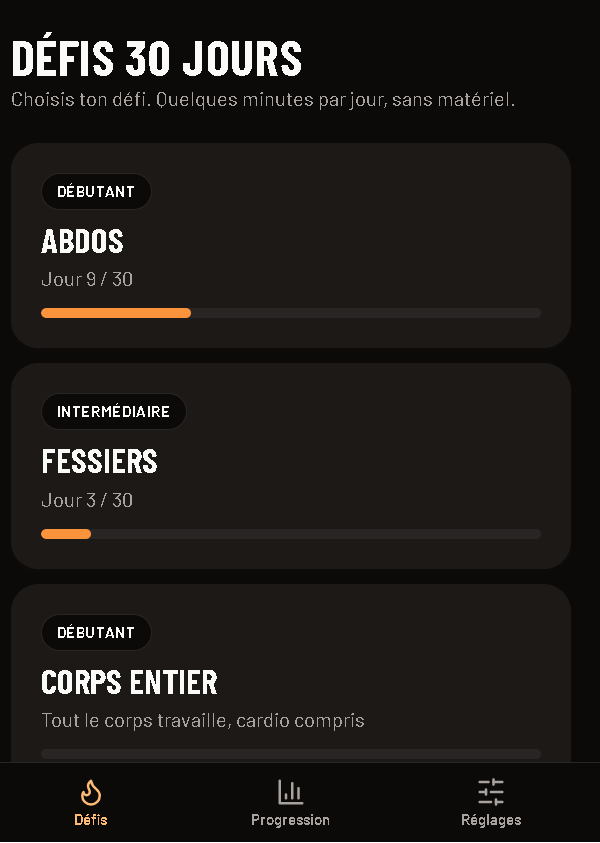
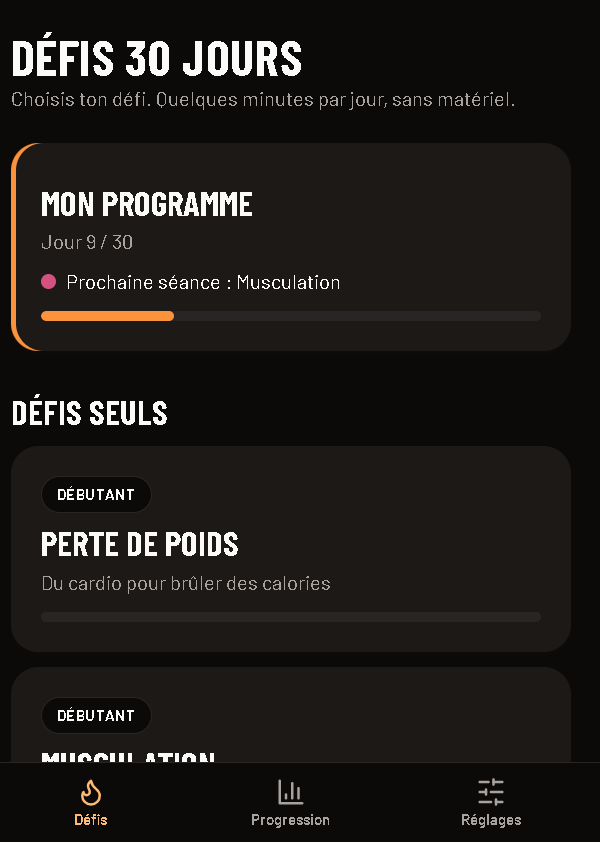
Version 1.4 : Mon programme, défis Perte de poids et Musculation

diff --git a/README.md b/README.md
@@ -1,6 +1,6 @@
 # 🔥 Fitness30 — Défis sportifs de 30 jours
 
-**Fitness30** est une application web progressive (PWA) pour se mettre au sport chez soi, sans matériel. Choisis un défi de 30 jours, suis la séance du jour guidée par la minuterie, et regarde tes jours se cocher un à un. Quelques minutes par jour suffisent. Disponible en 9 langues. Sans compte, sans publicité, sans abonnement : tes données restent sur ton téléphone.
+**Fitness30** est une application web progressive (PWA) pour se mettre au sport chez soi, sans matériel. Choisis un défi de 30 jours ou combine-en plusieurs dans un programme fait pour ton objectif, suis la séance du jour guidée par la minuterie, et regarde tes jours se cocher un à un. Quelques minutes par jour suffisent. Disponible en 9 langues. Sans compte, sans publicité, sans abonnement : tes données restent sur ton téléphone.
 
 🔗 **Accéder à l'app** : [https://fitness30.vercel.app](https://fitness30.vercel.app)
 
@@ -10,7 +10,7 @@
 
 <table>
   <tr>
-    <td align="center"><img src="screenshots/1-defis.png" alt="Écran Défis : les défis Abdos, Fessiers et Corps entier avec leur niveau et leur avancement" width="240"><br><b>Les défis</b></td>
+    <td align="center"><img src="screenshots/1-defis.png" alt="Écran Défis : la carte Mon programme avec la prochaine séance, puis les défis seuls avec leur niveau" width="240"><br><b>Les défis</b></td>
     <td align="center"><img src="screenshots/2-grille-30-jours.png" alt="Grille des 30 jours du défi Abdos : jours faits en vert, jours de repos avec une lune, jour du moment entouré" width="240"><br><b>Les 30 jours</b></td>
     <td align="center"><img src="screenshots/3-seance-du-jour.png" alt="Aperçu de la séance du jour : liste des exercices avec leur durée ou leur nombre de répétitions" width="240"><br><b>La séance du jour</b></td>
   </tr>
@@ -18,6 +18,11 @@
     <td align="center"><img src="screenshots/4-minuterie.png" alt="Séance en cours : démonstration de l'exercice, minuterie ronde, boutons pause, précédent et suivant" width="240"><br><b>La minuterie</b></td>
     <td align="center"><img src="screenshots/5-progression.png" alt="Écran Progression : jours d'affilée, nombre de séances, minutes et calendrier du mois" width="240"><br><b>La progression</b></td>
     <td align="center"><img src="screenshots/6-poids.png" alt="Suivi du poids : saisie du poids du jour, dernier poids, évolution et courbe" width="240"><br><b>Le poids</b></td>
+  </tr>
+  <tr>
+    <td align="center"><img src="screenshots/7-programme.png" alt="Mon programme : légende des couleurs, défi prioritaire et planning de 30 jours où chaque jour a la couleur et l'initiale de son défi" width="240"><br><b>Mon programme</b></td>
+    <td align="center"><img src="screenshots/8-creer-programme.png" alt="Création du programme : choix du défi prioritaire et semaine type en couleurs" width="240"><br><b>Créer son programme</b></td>
+    <td></td>
   </tr>
 </table>
 
@@ -29,16 +34,18 @@
 
 | Onglet | Description |
 |---|---|
-| 🔥 **Défis** | Les 3 défis (Abdos, Fessiers, Corps entier), chacun en 3 niveaux. Grille des 30 jours avec les jours faits, les jours de repos et le jour à faire. |
-| 📊 **Progression** | Jours d'affilée, nombre de séances, minutes et calories estimées, calendrier du mois avec tes jours d'entraînement, suivi du poids avec sa courbe. |
-| ⚙ **Réglages** | Langue, thème (auto, clair ou sombre), durée du repos, voix et bips pendant la séance, rappel quotidien dans ton agenda, sauvegarde et restauration de tes données, numéro de version tout en bas. |
+| 🔥 **Défis** | **Mon programme** en haut (plusieurs défis dans un même planning en couleurs), puis les 5 défis seuls (Perte de poids, Musculation, Abdos, Fessiers, Corps entier), chacun en 3 niveaux. Grille des 30 jours avec les jours faits, les jours de repos et le jour à faire. |
+| 📊 **Progression** | Jours d'affilée, nombre de séances, minutes et calories estimées, calendrier du mois avec un point de couleur par défi, suivi du poids avec sa courbe. |
+| ⚙ **Réglages** | Langue, thème (auto, clair ou sombre), durée du repos, voix et bips pendant la séance, rappel quotidien dans ton agenda, ton objectif (modifiable à tout moment), sauvegarde et restauration de tes données, numéro de version tout en bas. |
 
 ---
 
 ## ✨ Fonctionnalités principales
 
 - 🌍 **9 langues** : français, anglais, allemand, espagnol, portugais, italien, néerlandais, polonais, turc (celle du téléphone par défaut, modifiable dans Réglages)
-- 🏋 **3 défis de 30 jours** : Abdos, Fessiers, Corps entier, chacun en niveau débutant, intermédiaire ou avancé
+- 🏋 **5 défis de 30 jours** : Perte de poids, Musculation, Abdos, Fessiers, Corps entier, chacun en niveau débutant, intermédiaire ou avancé
+- 🗓 **Mon programme** : combine 2 ou 3 défis ; l'appli construit un planning de 30 jours d'après ton objectif et donne le plus de jours au défi qui compte le plus pour toi. Chaque défi a sa couleur et son initiale sur le calendrier
+- 🎯 **Objectif modifiable** à tout moment : le défi prioritaire et la suite du planning s'adaptent, les jours déjà faits restent
 - 📈 **Difficulté qui monte en douceur** jour après jour, avec un jour de repos tous les 4 jours
 - 🔄 **Changer de niveau sans perdre ses jours** : tu gardes ta progression
 - ⏱ **Séance guidée** : décompte « Prêt ? », minuterie ou compteur de répétitions, repos avec l'exercice suivant, pause, précédent, suivant
@@ -62,6 +69,7 @@
 
 | Version | Date | Nouveautés |
 |---|---|---|
+| **1.4** | 14 nov. 2026 | Mon programme (plusieurs défis dans un planning selon ton objectif, code couleur), défis Perte de poids et Musculation, 5 nouveaux exercices, objectif modifiable |
 | **1.3** | 14 nov. 2026 | Suivi du poids avec courbe, choix du thème clair ou sombre |
 | 1.2.1 | 14 nov. 2026 | Démo de la planche corrigée (avant-bras posés vers l'avant) |
 | **1.2** | 14 nov. 2026 | Nouvelles démos animées pour les 22 exercices |
